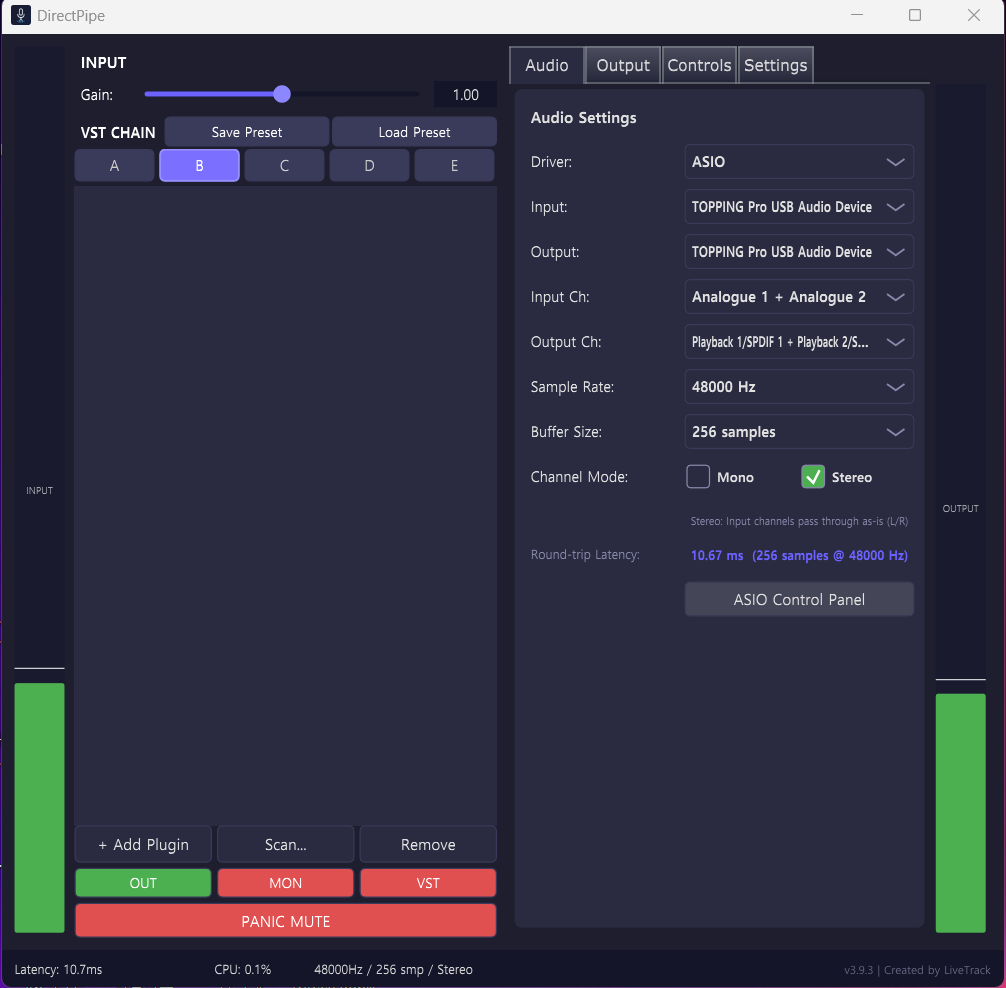
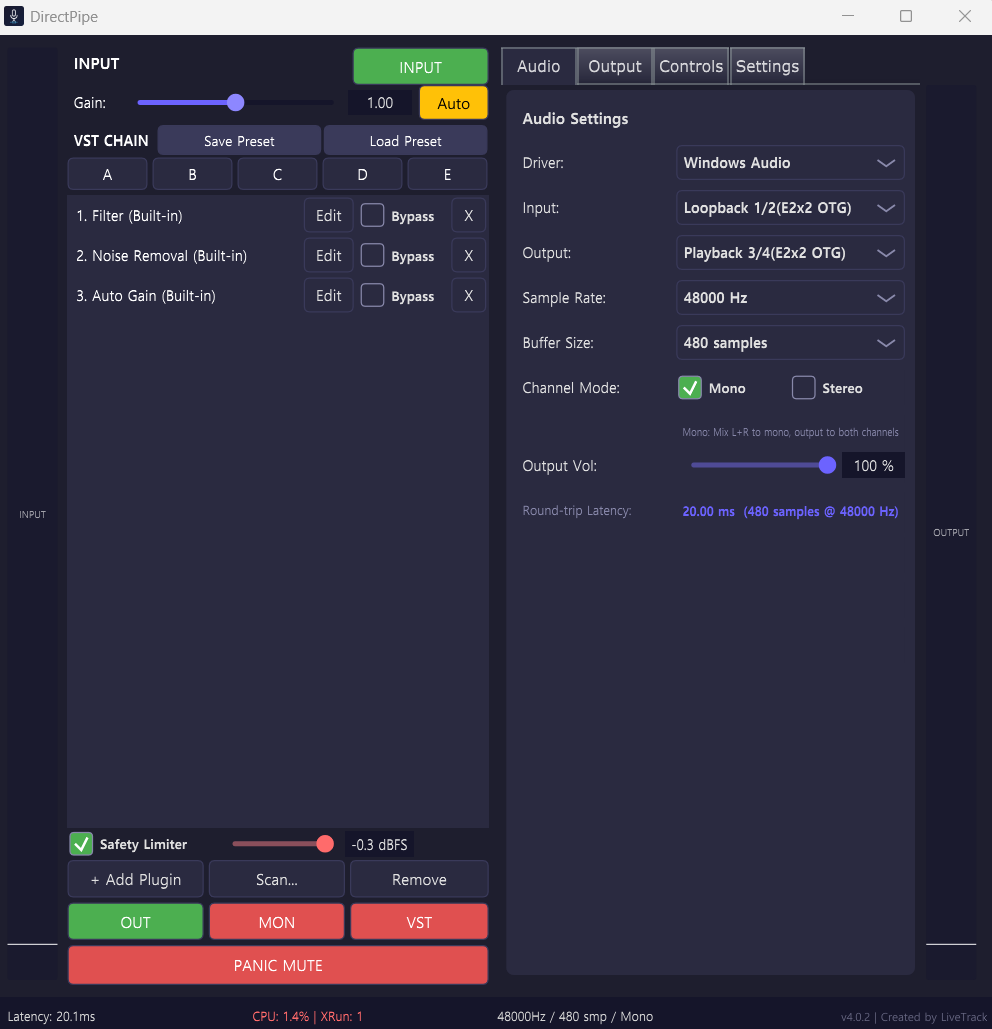
ui: refine panic lock colors and update README screenshot

diff --git a/host/Source/MainComponent.cpp b/host/Source/MainComponent.cpp
@@ -145,11 +145,13 @@ MainComponent::MainComponent(bool enableExternalControls)
     //    External controls (hotkeys, MIDI, Stream Deck) cycle only through A-E.
     //    Auto must be explicitly selected.
     //
-    // 5. When Auto is active, the A-E buttons are visually deselected and the
-    //    Auto button turns green (0xFF4CAF50). See updateAutoButtonVisual().
-    autoProcessorBtn_.setColour(juce::TextButton::buttonColourId, juce::Colour(0xFF2A4035));
-    autoProcessorBtn_.setColour(juce::TextButton::textColourOnId, juce::Colours::white);
-    autoProcessorBtn_.setColour(juce::TextButton::textColourOffId, juce::Colours::white);
+    // 5. Auto button uses a two-step yellow scheme:
+    //    - Active Auto slot: bright yellow
+    //    - Inactive: darker "pressed" yellow
+    //    See updateAutoButtonVisual().
+    autoProcessorBtn_.setColour(juce::TextButton::buttonColourId, juce::Colour(0xFF7D6200));
+    autoProcessorBtn_.setColour(juce::TextButton::textColourOnId, juce::Colours::black);
+    autoProcessorBtn_.setColour(juce::TextButton::textColourOffId, juce::Colours::black);
     autoProcessorBtn_.onClick = [this] {
         if (loadingSlot_) return;
 
@@ -483,7 +485,7 @@ MainComponent::MainComponent(bool enableExternalControls)
     actionHandler_->onPanicStateChanged = [this](bool muted) {
         panicMuteBtn_.setButtonText(muted ? "UNMUTE" : "PANIC MUTE");
         panicMuteBtn_.setColour(juce::TextButton::buttonColourId,
-                                juce::Colour(muted ? 0xFF4CAF50u : 0xFFE53935u));
+                                juce::Colour(muted ? 0xFF4CAF50u : 0xFFE05050u));
     };
     actionHandler_->onIpcStateChanged = [this](bool enabled) {
         if (auto* outPanel = dynamic_cast<OutputPanel*>(rightTabs_->getTabContentComponent(1)))
@@ -545,7 +547,7 @@ MainComponent::MainComponent(bool enableExternalControls)
     vstMuteBtn_.onClick = [this] { actionHandler_->toggleIpcMute(); };
 
     // ── Panic Mute Button ──
-    panicMuteBtn_.setColour(juce::TextButton::buttonColourId, juce::Colour(0xFFE53935));
+    panicMuteBtn_.setColour(juce::TextButton::buttonColourId, juce::Colour(0xFFE05050));
     panicMuteBtn_.setColour(juce::TextButton::textColourOnId, juce::Colours::white);
     panicMuteBtn_.setColour(juce::TextButton::textColourOffId, juce::Colours::white);
     panicMuteBtn_.onClick = [this] { actionHandler_->togglePanicMute(); };
@@ -725,12 +727,12 @@ void MainComponent::resized()
 
     // ── INPUT Section ──
     {
-        int btnW = 72;
-        int btnH = 24;
-        inputSectionLabel_.setBounds(cx, y, cw - btnW - 4, 24);
+        int btnW = (cw - 4 * 2) / 3; // match OUT button width
+        int btnH = 30;               // match OUT/MON/VST button height
+        inputSectionLabel_.setBounds(cx, y, cw - btnW - 6, 24);
         inputMuteBtn_.setBounds(cx + cw - btnW, y, btnW, btnH);
     }
-    y += 26;
+    y += 32;
 
     // Input gain row: [Gain:] [slider] [Auto]
     {
@@ -959,7 +961,7 @@ void MainComponent::refreshUI()
     bool muted = audioEngine_.isMuted();
     panicMuteBtn_.setButtonText(muted ? "UNMUTE" : "PANIC MUTE");
     panicMuteBtn_.setColour(juce::TextButton::buttonColourId,
-                            juce::Colour(muted ? 0xFF4CAF50u : 0xFFE53935u));
+                            juce::Colour(muted ? 0xFF4CAF50u : 0xFFE05050u));
 
     // IPC toggle state (Output tab = index 1)
     if (auto* outPanel = dynamic_cast<OutputPanel*>(rightTabs_->getTabContentComponent(1)))
@@ -975,13 +977,13 @@ void MainComponent::updateAutoButtonVisual()
 {
     bool autoActive = (presetManager_ && presetManager_->getActiveSlot() == PresetSlotBar::kAutoSlotIndex);
     if (autoActive) {
-        autoProcessorBtn_.setColour(juce::TextButton::buttonColourId, juce::Colour(0xFFFFC107));   // Yellow
+        autoProcessorBtn_.setColour(juce::TextButton::buttonColourId, juce::Colour(0xFFFFC107));   // Bright yellow (active)
         autoProcessorBtn_.setColour(juce::TextButton::textColourOffId, juce::Colours::black);
         autoProcessorBtn_.setColour(juce::TextButton::textColourOnId, juce::Colours::black);
     } else {
-        autoProcessorBtn_.setColour(juce::TextButton::buttonColourId, juce::Colour(0xFF2A4035));   // Dark
-        autoProcessorBtn_.setColour(juce::TextButton::textColourOffId, juce::Colours::white);
-        autoProcessorBtn_.setColour(juce::TextButton::textColourOnId, juce::Colours::white);
+        autoProcessorBtn_.setColour(juce::TextButton::buttonColourId, juce::Colour(0xFF7D6200));   // Darker pressed yellow (inactive)
+        autoProcessorBtn_.setColour(juce::TextButton::textColourOffId, juce::Colours::black);
+        autoProcessorBtn_.setColour(juce::TextButton::textColourOnId, juce::Colours::black);
     }
 }
 

diff --git a/host/Source/UI/StatusUpdater.cpp b/host/Source/UI/StatusUpdater.cpp
@@ -73,8 +73,8 @@ void StatusUpdater::tick(PresetManager* pm, int numPresetSlots)
 
     // ── Mute indicator colours (cached to avoid redundant repaints) ──
     // Color scheme:
-    //   INPUT:       GREEN (active) / RED (muted) — independent of panic
-    //   OUT/MON/VST: GREEN (active) / RED (user muted) / DARK RED (panic locked + disabled)
+    //   INPUT:       GREEN (active) / RED (muted) - independent of panic
+    //   OUT/MON/VST: GREEN (active) / RED (user muted) / TONED-DOWN LOCK-RED (panic locked)
     //   PANIC MUTE:  RED (ready) / GREEN + "UNMUTE" (panic active)
     {
         // INPUT button — 2 states, independent of panic
@@ -82,7 +82,7 @@ void StatusUpdater::tick(PresetManager* pm, int numPresetSlots)
         if (inMuted != cachedInputMuted_) {
             cachedInputMuted_ = inMuted;
             inputMuteBtn_->setColour(juce::TextButton::buttonColourId,
-                inMuted ? juce::Colour(0xFFE53935) : juce::Colour(0xFF4CAF50));
+                inMuted ? juce::Colour(0xFFE05050) : juce::Colour(0xFF4CAF50));
         }
 
         // Panic state affects OUT/MON/VST buttons
@@ -100,10 +100,10 @@ void StatusUpdater::tick(PresetManager* pm, int numPresetSlots)
 
             // OUT button — 3 states
             if (muted) {
-                outputMuteBtn_->setColour(juce::TextButton::buttonColourId, juce::Colour(0xFF8B1E1E));
-                outputMuteBtn_->setEnabled(false);
+                outputMuteBtn_->setColour(juce::TextButton::buttonColourId, juce::Colour(0xFFD46161));
+                outputMuteBtn_->setEnabled(true); // locked by action guard during panic
             } else if (outUserMuted) {
-                outputMuteBtn_->setColour(juce::TextButton::buttonColourId, juce::Colour(0xFFE53935));
+                outputMuteBtn_->setColour(juce::TextButton::buttonColourId, juce::Colour(0xFFE05050));
                 outputMuteBtn_->setEnabled(true);
             } else {
                 outputMuteBtn_->setColour(juce::TextButton::buttonColourId, juce::Colour(0xFF4CAF50));
@@ -112,10 +112,10 @@ void StatusUpdater::tick(PresetManager* pm, int numPresetSlots)
 
             // MON button — 3 states
             if (muted) {
-                monitorMuteBtn_->setColour(juce::TextButton::buttonColourId, juce::Colour(0xFF8B1E1E));
-                monitorMuteBtn_->setEnabled(false);
+                monitorMuteBtn_->setColour(juce::TextButton::buttonColourId, juce::Colour(0xFFD46161));
+                monitorMuteBtn_->setEnabled(true); // locked by action guard during panic
             } else if (monUserMuted) {
-                monitorMuteBtn_->setColour(juce::TextButton::buttonColourId, juce::Colour(0xFFE53935));
+                monitorMuteBtn_->setColour(juce::TextButton::buttonColourId, juce::Colour(0xFFE05050));
                 monitorMuteBtn_->setEnabled(true);
             } else {
                 monitorMuteBtn_->setColour(juce::TextButton::buttonColourId, juce::Colour(0xFF4CAF50));
@@ -124,10 +124,10 @@ void StatusUpdater::tick(PresetManager* pm, int numPresetSlots)
 
             // VST button — 3 states (note: vstActive means IPC enabled = active)
             if (muted) {
-                vstMuteBtn_->setColour(juce::TextButton::buttonColourId, juce::Colour(0xFF8B1E1E));
-                vstMuteBtn_->setEnabled(false);
+                vstMuteBtn_->setColour(juce::TextButton::buttonColourId, juce::Colour(0xFFD46161));
+                vstMuteBtn_->setEnabled(true); // locked by action guard during panic
             } else if (!vstActive) {
-                vstMuteBtn_->setColour(juce::TextButton::buttonColourId, juce::Colour(0xFFE53935));
+                vstMuteBtn_->setColour(juce::TextButton::buttonColourId, juce::Colour(0xFFE05050));
                 vstMuteBtn_->setEnabled(true);
             } else {
                 vstMuteBtn_->setColour(juce::TextButton::buttonColourId, juce::Colour(0xFF4CAF50));
@@ -141,7 +141,7 @@ void StatusUpdater::tick(PresetManager* pm, int numPresetSlots)
                     panicMuteBtn_->setColour(juce::TextButton::buttonColourId, juce::Colour(0xFF4CAF50));
                 } else {
                     panicMuteBtn_->setButtonText("PANIC MUTE");
-                    panicMuteBtn_->setColour(juce::TextButton::buttonColourId, juce::Colour(0xFFE53935));
+                    panicMuteBtn_->setColour(juce::TextButton::buttonColourId, juce::Colour(0xFFE05050));
                 }
             }
         }
